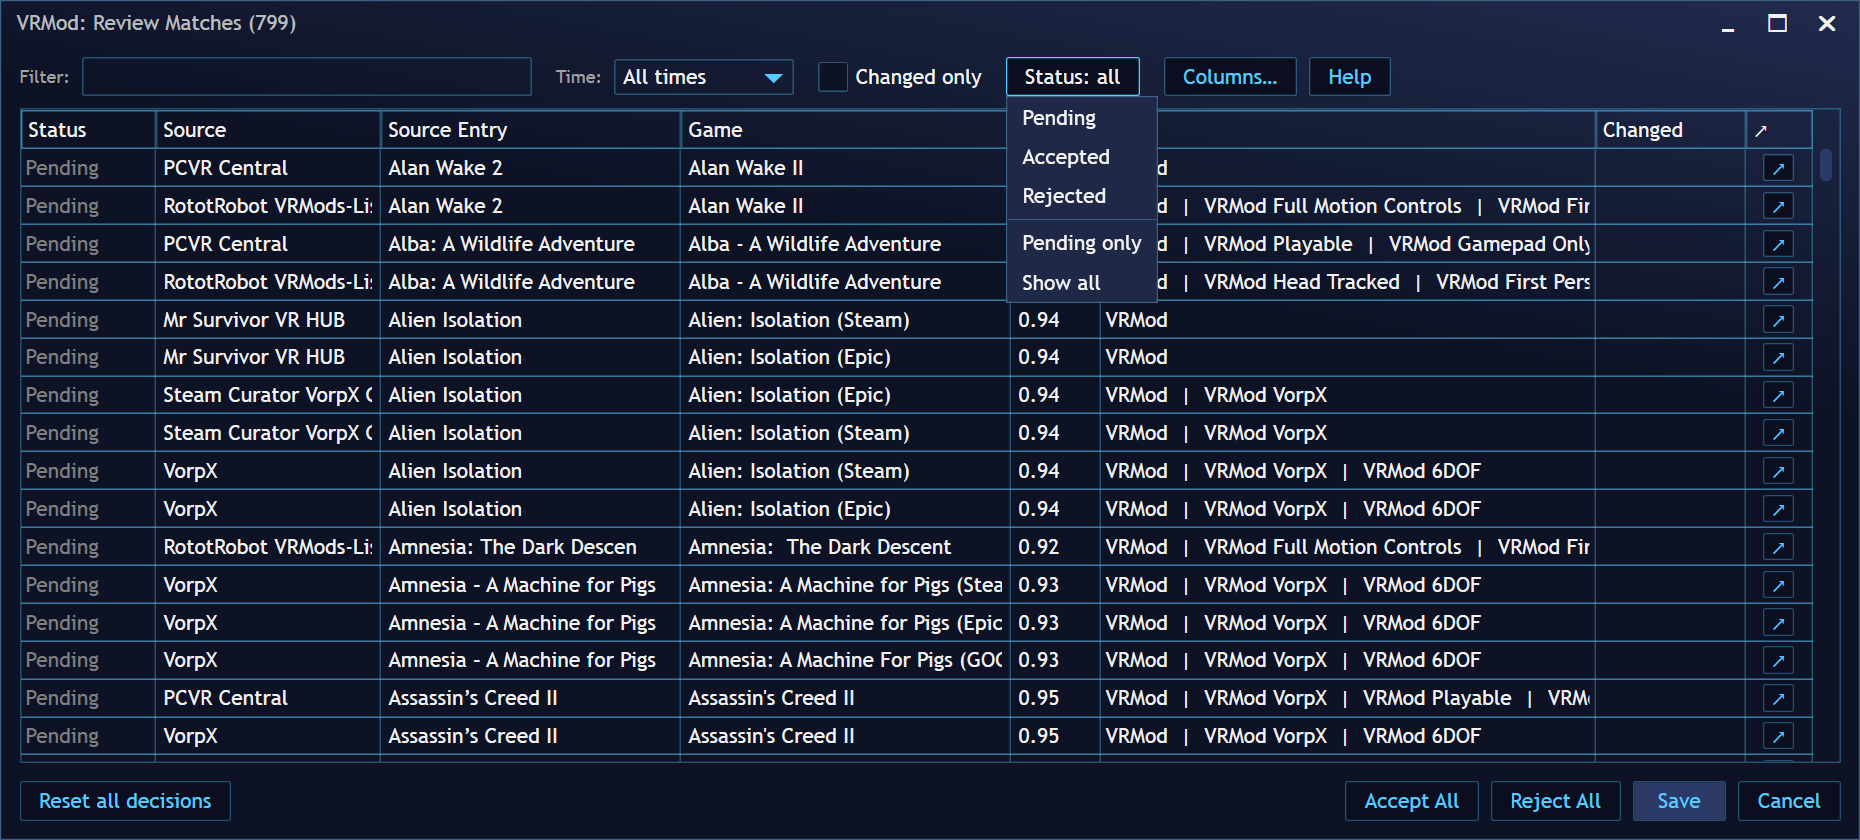
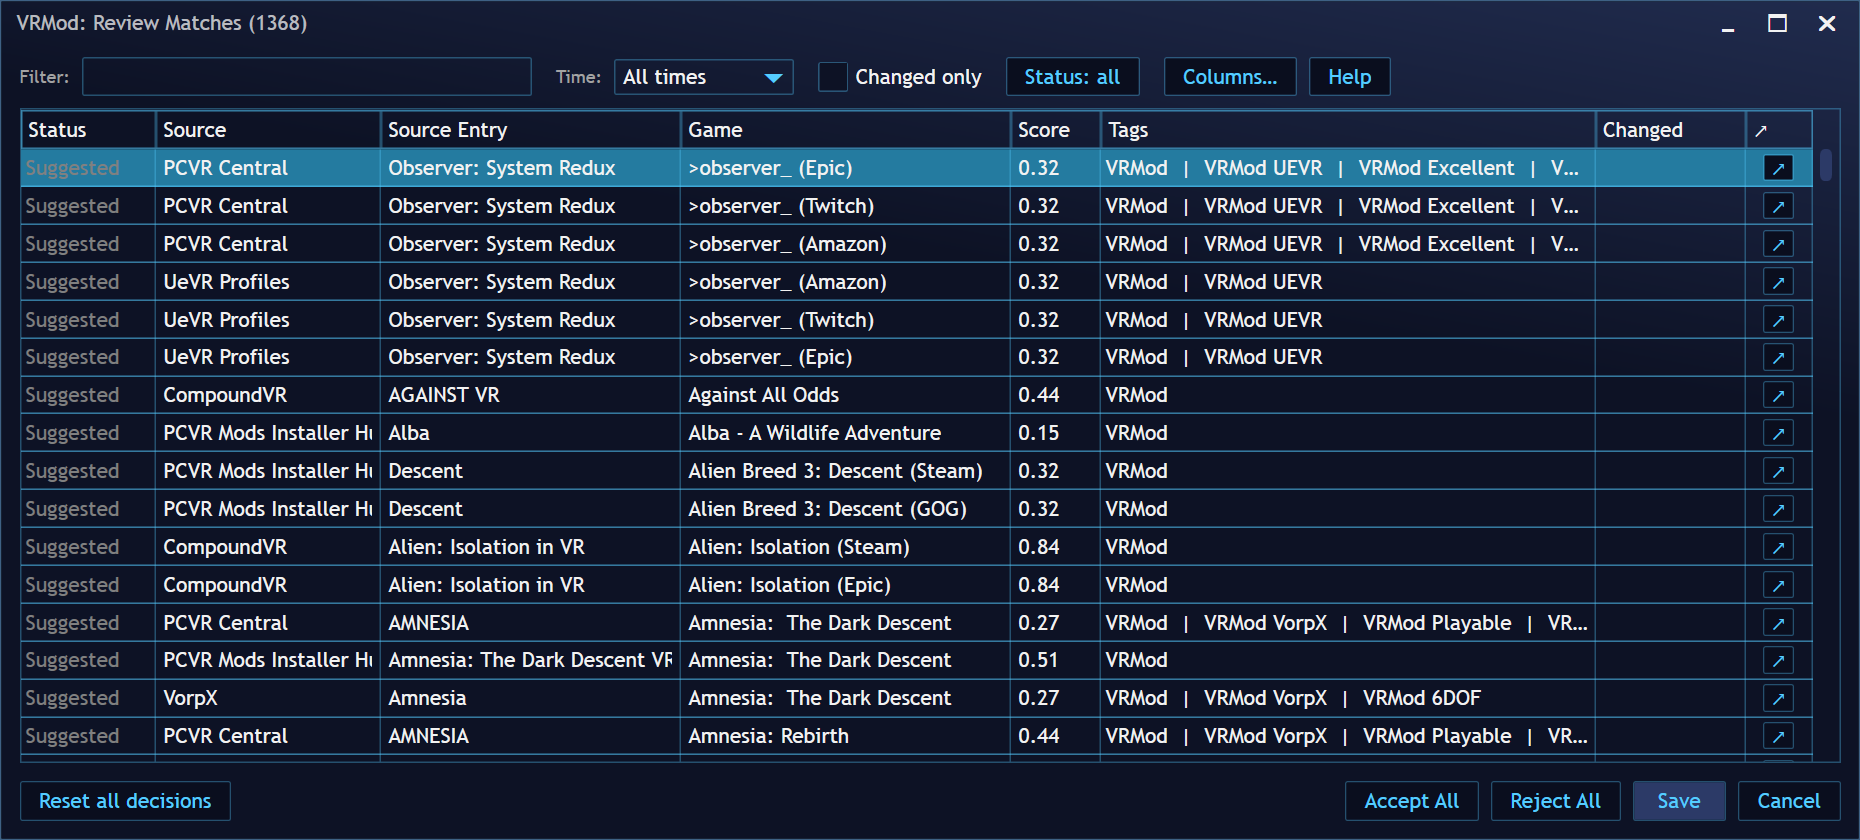
docs: the manual follows the menus, the removal routes, and a down source
The pages described the add-on the user no longer meets, and three of those
sentences were not stale wording but the opposite of the shipped behaviour - the
kind of wrong a reader acts on. "When you install a new game ... applied silently,
without any window" promised tags for an unreviewed pairing, and the comparison
table's "Human check before writing" row said the plugin tags what it is confident
about, on the very line where a reader chooses between three add-ons. No page stated
the rule every path follows: a scan writes nothing for a pairing nobody agreed to,
whatever started it.

getting-started.md gained that rule and a Menus section for the two submenus -
Extensions > VRMod Tags (Scan..., Settings...) and right-click a game > VRMod Tags
(Check this game for VR mods..., and the two decision items), their visibility, their
confirmations, the count in the labels, and the rule behind how they report: what you
start answers in a window, the bell is only for the scans you did not start, and the
cause of a failure sits in extensions.log next to Playnite.dll. That is stated once at
the head of the section rather than per item, then echoed where a reader actually meets
it - a check that finds nothing, a scan that matched nothing, the settings page's Review
VR Mods - and the one state that reads as a bug to a reader: a game an older version
tagged carries tags with no decision behind them, so the decision items stay absent until
a scan gives it a row to decide.
[…]

diff --git a/docs/getting-started.md b/docs/getting-started.md
@@ -29,8 +29,10 @@ As soon as Playnite starts with the add-on installed, it runs a scan:
   exact first (a Steam App ID match is preferred whenever the
   source has one), then by normalized game name with a similarity
   threshold (the default is 80% — see [Settings](settings.md)).
-- Exact matches (score 1.00) are accepted by default; everything else starts as
-  **Pending** and waits for you in the review dialog.
+- Nothing is written to a game before you agree to it. An exact match (score
+  1.00) arrives in the review dialog already marked as a yes, so confirming it
+  is one press of **Save**; everything else starts as **Pending**. A pairing you
+  have not saved gets no tags and no link.
 
 When the scan finds matches, Playnite posts a notification —
 the bell in the title bar gets a badge and the panel says:
@@ -48,19 +50,124 @@ settings page says what happened (e.g. a source that returned no data).
 The plugin scans automatically:
 
 - **at Playnite startup**,
-- **when you install a new game** — the matches for that
-  single game are applied silently, without any window,
+- **when you add a game to your library** — that game is scanned in the
+  background, with no window: the tags your saved decisions back are written,
+  and a pairing nobody was asked about is left alone until you review it,
 - **on a schedule you configure** — the default
   is every 7 days; see [Settings](settings.md).
 
-Automatic scans run in the background. When there is news, you get the bell
-notification; clicking it opens the review dialog — the pending matches, or
-every matched game when your saved matches picked up tag changes. A scan that
-finds nothing new stays silent. You can also open the review dialog any time
-from the settings page: the **Review VR Mods** button opens it directly from the
-data of your last scan (without rescanning) — with every matched game (new and
-already-decided), so you can review or change your decisions; the **Full Scan**
-button runs the scan and applies the matches right away, without a dialog.
+What a scan does does not depend on what started it: a pairing you **accepted**
+gets its tags and its link, a pairing you **rejected** gets nothing, and a
+pairing nobody has been asked about gets nothing either — it waits in the review
+list. A tag therefore always means "you agreed to this mod for this game".
+
+The startup and scheduled scans report their findings in the bell; clicking it
+opens the review dialog — the pending matches, or every matched game when your
+saved matches picked up tag changes. A scan that finds nothing new stays silent,
+and the per-source status on the settings page says what happened. The new-game
+scan posts no bell: reach the result yourself with the game's own menu (see
+[Menus](#menus)) or the review dialog.
+
+You can also open the review dialog any time from the settings page: the
+**Review VR Mods** button opens it directly from the data of your last scan
+(without rescanning) — with every matched game (new and already-decided), so you
+can review or change your decisions; the **Full Scan** button rescans every
+enabled source and re-applies what your saved decisions back, without a dialog —
+the fast "update my tags" action. Pairings you never decided are not applied by
+it; they wait in the review list.
+
+## When a source is down, or you cancel a scan
+
+A scan that cannot reach one of its sources does not stop. The sources that
+answered are matched and applied as usual, so the mods you already agreed to keep
+their tags and their links. What such a scan will not do is take anything off:
+removing tags and links happens only after a scan in which every enabled source
+answered. Otherwise a site being offline for an afternoon would read as "these
+mods no longer exist". The next scan where everything answers does the cleanup it
+skipped. The failed source is the red row in the [sources
+list](settings.md#sources); its **Last run** button names the reason.
+
+Cancelling is a different thing. The progress window of a manual scan (**Scan...**
+in the Extensions menu, **Full Scan** in the settings page) has a **Cancel**
+button. Cancel while the sources are still answering — the long part of a scan —
+and it stops before writing anything: no tags, no links, no review dialog, and
+whatever earlier scans applied stays as it was. That is the one point where a
+cancel is looked for, so once every source has answered the scan finishes its
+local work and writes what it found; a click after that cannot take it back. The
+automatic scans (startup, schedule, a new game) have no window, so there is
+nothing to cancel.
+
+## Menus
+
+The plugin adds two submenus to Playnite, both titled **VRMod Tags** — one under
+the main menu's **Extensions**, one in the context menu of a game or selection.
+
+Anything you start from these menus answers in a **window**: a menu closes the
+moment you click it, so a result with nothing else on screen to carry it would
+never arrive. The bell is reserved for the scans you did not start — startup,
+the schedule, a new game (see [Automatic scans](#automatic-scans)). When
+something did not work, the window says so and the cause is in Playnite's
+`extensions.log`, next to `Playnite.dll`.
+
+### Extensions → VRMod Tags
+
+- **Scan...** — scans the whole library and ends in the review dialog, showing
+  every matched game: what this scan found, your accepted and rejected pairings,
+  and everything still waiting for you. When no mod in the sources fits any game
+  in your library, a window says that instead of an empty dialog; when the scan
+  does not finish, the window says so, and `extensions.log` holds the cause.
+- **Settings...** — opens this plugin's page in the **Add-ons** window (see the
+  note under [Installing](#installing): add-on settings are not in Playnite's
+  main **Settings** window). The item is not offered in fullscreen mode, where
+  there is no settings page to open.
+
+![The Extensions menu with the plugin's Scan and Settings items](img/extensions-menu.png)
+
+### Right-click a game → VRMod Tags
+
+The labels count your selection, so a multi-selection reads "these 4 games"
+where one game reads "this game".
+
+- **Check this game for VR mods...** — scans only the selected games and opens
+  their review list. Always offered. When those games have no mod, it says so in
+  a window rather than a bell; and when a scan is already running (or no source
+  is enabled) it says the scan did not start, rather than opening an empty
+  window.
+- **Reset my decisions for this game...** — offered when the plugin holds a
+  saved decision (accepted, rejected, or merely asked) for at least one selected
+  game. It forgets those decisions *and* removes the tags and links they had put
+  on those games, in one action, so a game keeps nothing the plugin no longer
+  stands behind. The next scan offers the mods for review again — which makes
+  this also the way back from a reject.
+- **Reject all assigned VR mods on this game...** — offered when the plugin
+  holds an accepted pairing for at least one selected game. The mods assigned to
+  those games are refused: their tags and links come off now, and the plugin will
+  not offer them again. Other mods that fit the game are still suggested — the
+  veto is per mod and per game, not a ban on the game.
+
+The last two ask for confirmation first, and the confirmation says what will be
+removed and how to undo it. Neither one touches a tag the plugin did not add: your
+own tags and links stay yours. Every route by which a tag comes back off — the
+two above, the review dialog, a source you switch off, and what a full scan does
+when a mod's listing disappears — is in
+[Tags & data sources](tags.md#how-a-tag-comes-off-again).
+
+The menu items appear only where they can do something — which is why a game with
+no VR mod of yours in it shows only **Check this game for VR mods...**.
+
+![A game with no VR mod of yours: the plugin's submenu holds only the check](img/game-menu.png)
+
+One
+state asks for that separately: a game tagged by an **older** version of the
+plugin, which could tag a match it had never asked you about, carries tags with
+no saved decision behind them. For such a game the two decision items do not
+appear, because there is no decision to reset or refuse; **Check this game for VR
+mods...** lists it, and deciding its row in the dialog gives it a decision — from
+then on the menu treats it like any other game. The current version never
+creates that state.
+
+Everything a menu does to one game, the review dialog does to a whole set at
+once — see [Review dialog](review.md).
 
 ## Updating
 

diff --git a/README.md b/README.md
@@ -3,13 +3,13 @@
 **VRMod Tags** is a Playnite add-on — a metadata provider — that finds
 VR mods, ports and conversions for the games already in your library.
 It reads community-curated sources, matches their listings against
-your games, and tags the games it is confident about; the uncertain
-matches wait in a review dialog until you decide. Accepted games get a
+your games, and asks you about the pairings it finds: nothing is tagged
+until you accept it. Accepted games get a
 `VRMod` tag, the source's own category tags, and a link to the mod page.
 
 ## Features
 
-- **Auto-tagging** — `VRMod` plus category-specific tags (UEVR,
+- **Tags and links for what you accept** — `VRMod` plus category-specific tags (UEVR,
   Depth3D, REFramework, and the source's own framework and status
   vocabulary), and a `Link` to the listing the match came from.
 - **Twelve community sources** — ten enabled by default: PCVR Central,
@@ -26,15 +26,20 @@ matches wait in a review dialog until you decide. Accepted games get a
   *Game*, because the re-release words at the end of a name say which copy it
   is, not which product. A match resting on the App ID alone is a Pending row
   for you to decide, never a tag applied on its own.
-- **A review dialog for the matches it is unsure about** — filter,
+- **A review dialog for every pairing it finds** — filter,
   sort, accept, reject, bulk actions, column control, open the mod page.
-  Statuses are Saved/New (accepted), Rejected, Suggested and Pending.
+  Nothing reaches your library before you save it; an exact-name pairing simply
+  arrives pre-ticked as a yes. Statuses are Saved/New (accepted), Rejected,
+  Suggested and Pending.
 - **Decisions stick** — an accepted or rejected pairing is keyed by the
   listing's identity (its App ID or page URL) and its game, so it survives a
   rename on the site and a rename in your library.
 - **Scans** — at startup, when a game is added or renamed,
   and on a configurable interval, with per-source caching
   and a bell notification when something needs reviewing.
+- **Menus** — **Extensions → VRMod Tags** for a full scan and the settings, and
+  a game's own context menu to check these games for mods, reject the VR mods
+  assigned to them, or reset your decisions for them.
 - **A run log** — what each source returned, what failed and why, per scan.
 - **Clean uninstall** — every tag, link, queued
   change and setting the plugin added is removed.
@@ -59,7 +64,7 @@ changes it makes are part of your Playnite library, not a private store.
   start, the review dialog, the settings page, every tag and
   every source. This is what the plugin's **Help** button opens.
 - [docs/getting-started.md](docs/getting-started.md) — Install,
-  first scan, automatic scans, updating, uninstalling.
+  first scan, automatic scans, the plugin's menus, updating, uninstalling.
 - [docs/review.md](docs/review.md) — Every column and status in the review
   dialog, filters, sorting, bulk actions, resetting decisions.
 - [docs/settings.md](docs/settings.md) — The sources grid column by column,
@@ -178,8 +183,8 @@ Matcher][matcher] (SW-Fan1138), and VRMod Tags (this plugin).
   first; optional review for similar-title matches
 - PCVR Central Matcher — Applies on Sync; you create
   the `PCVR-Mod` and `PCVR-Native` tags yourself first
-- VRMod Tags — Tags confident matches automatically;
-  everything else waits in the review dialog
+- VRMod Tags — Writes nothing until you accept it;
+  every pairing waits in the review dialog, and a refusal is remembered
 
 #### Tag vocabulary
 

diff --git a/docs/tags.md b/docs/tags.md
@@ -50,6 +50,32 @@ full-motion *and* a UEVR profile yields `VRMod Full Motion` *and*
 `VRMod UEVR`). A game's tag set is the union of every tag yielded by
 every matched mod, so a game can carry several category tags at once.
 
+## How a tag comes off again
+
+Your saved decisions are the state; the tags and the links to mod
+pages are what those decisions put into your library. A tag this
+plugin owns comes off a game as soon as **nothing backs it any
+more** — the same rule on every path, whether the change came from
+you or from a scan. So there are as many ways to take a tag off as
+there are to change what backs it:
+
+| What you do | What comes off |
+| --- | --- |
+| Reject a pairing in the [review dialog](review.md) and **Save** | That mod's category and facet tags, and its link to the mod page. The umbrella `VRMod` tag goes as well if no other VR mod tag is left on the game. Other accepted mods keep their tags. |
+| Set a decided row back to *Pending* and **Save** | The same tags come off, and the saved decision is cleared — the pairing is offered for review again. |
+| **Reset my decisions for this game...** (a game's right-click menu → **VRMod Tags**) | Every tag and link the plugin put on those games, and the decisions behind them. The next scan asks again. |
+| **Reject all assigned VR mods on this game...** (the same menu) | The assigned mods' tags and links. The decisions stay, as refusals, so those pairings are not offered again. |
+| **Reset all decisions** (review dialog) → **Reset and remove tags** | Every `VRMod*` tag in your library. The **Reset only** option clears the decisions and leaves every tag where it is. |
+| Turn a source off in [settings](settings.md) | Playnite asks *Remove the VRMod tags that came from "…"?* Tags another source also backs are kept. **Cancel** — or closing that question — leaves them all. |
+| Nothing at all | When a mod's listing disappears from every source, the next full scan takes the tags it used to back off the game. A tag never outlives the match behind it. (If a source failed during that scan, the plugin removes nothing — it keeps the tags rather than guess. See [when a source is down](getting-started.md#when-a-source-is-down-or-you-cancel-a-scan).) |
+
+**What counts as "ours" is the tag's name.** The plugin only ever
+removes a tag named `VRMod` or `VRMod …`, and it never relies on a
+tag id. So a tag you made yourself that happens to carry one of
+those names cannot be told apart from the plugin's own, and goes
+with them; every other name is untouched — your own tags and links
+stay yours.
+
 ## Data sources
 
 This plugin is built on the data and curation of these

diff --git a/docs/settings.md b/docs/settings.md
@@ -12,13 +12,18 @@ if you don't see the plugin there, you're in the wrong window.
 
 - **Games with VR mods: N** — how many games in
   your library currently carry a `VRMod` tag.
-- **Full Scan** — checks every enabled source and applies the matches
-  right away, without a dialog (the fast "update my tags" action).
+- **Full Scan** — checks every enabled source and re-applies what your saved
+  decisions back, without a dialog (the fast "update my tags" action). Pairings
+  you never decided are not applied by it; they wait in the review dialog. When
+  it cannot start (another scan is still running, or no source is enabled) or
+  does not finish, a window says so; `extensions.log` holds the cause.
 - **Review VR Mods** — opens the review dialog for every matched game
   (new and already-decided) so you can review or change your decisions.
   It opens instantly from the data of your last scan — it does not
   rescan. Only when no scan data is available yet (right after Playnite
-  started, before the first scan finished) it runs a scan first.
+  started, before the first scan finished) it runs a scan first. When
+  nothing in the sources matches a game of yours, a window says that
+  instead of an empty dialog.
 - **Help** (top right) — opens the user manual that ships inside the installed
   package, so the documentation always matches the version you have installed.
 
@@ -38,8 +43,10 @@ One row per data source:
 
 A source that fails (red) never takes other tags down with
 it: the scan continues for the healthy sources and skips
-removing any stale tags that scan, so nothing is lost while a
-source is down. The next healthy scan restores normal cleanup.
+removing any stale tags and any stale source links that scan, so
+nothing is lost while a source is down. The next healthy scan
+restores normal cleanup. What the healthy sources found is still
+applied — see [when a source is down](getting-started.md#when-a-source-is-down-or-you-cancel-a-scan).
 
 **VorpX** and **Luke Ross (R.E.A.L. VR)** are **opt-in** sources: they
 are **disabled by default**, so on a fresh install their **Active**

diff --git a/docs/review.md b/docs/review.md
@@ -8,7 +8,12 @@ suggested matches are right. You open it:
   already-decided), pending first, so you can review or change your decisions;
 - from the bell notification — the pending matches when there are new ones,
   or every matched game when your saved matches picked up tag changes (a scan
-  that found nothing new posts no notification at all).
+  that found nothing new posts no notification at all);
+- from **Extensions → VRMod Tags → Scan...** — a full scan first, then this
+  dialog with every matched game;
+- from a game's context menu, **VRMod Tags → Check this game for VR mods...**
+  — a scan of the selected games only, then their rows. Both menus are in
+  [Getting started](getting-started.md#menus).
 
 ![The review dialog](img/review-dialog.png)
 
@@ -115,6 +120,11 @@ with no Steam link, match by name exactly as they always did.
   your library (tags and links are applied), **Cancel** closes the dialog
   and discards the unsaved changes. **Save** is disabled while everything
   is already saved. The **×** in the title bar also closes without saving.
+- The library menu offers the same decisions one game at a time: a game's
+  right-click menu → **VRMod Tags** → **Reset my decisions for this
+  game...** or **Reject all assigned VR mods on this game...**. What each
+  of them does to the tags and links — in this dialog and in that menu —
+  is in [Tags & data sources](tags.md#how-a-tag-comes-off-again).
 
 The dialog is a normal Playnite window: it can be
 minimized, maximized, and resized from the edges.
@@ -142,3 +152,8 @@ all matches are reviewed again. It asks what to do with the tags:
 
 - **Reset only** — keep the tags already applied to your games;
 - **Reset and remove tags** — also remove every `VRMod*` tag from your library.
+
+This is the library-wide hammer. To undo **one game**, use that game's
+right-click menu instead — **Reset my decisions for this game...** or
+**Reject all assigned VR mods on this game...**, both under **VRMod
+Tags** ([Getting started → Menus](getting-started.md#menus)).

diff --git a/docs/README.md b/docs/README.md
@@ -35,8 +35,8 @@ and adds a link to the mod page, so VR-playable games are always easy to find.
 
 | Page | What it covers |
 | --- | --- |
-| [Getting started](getting-started.md) | Installation, what happens on install and first scan, automatic scans, the bell notification, updating, uninstalling. |
+| [Getting started](getting-started.md) | Installation, what happens on install and first scan, automatic scans, the plugin's two menus, the bell notification, updating, uninstalling. |
 | [Review dialog](review.md) | Every column, the status values, accept/reject, filters, sorting, the columns menu, bulk actions, and resetting all decisions. |
 | [Settings](settings.md) | The Sources grid column by column, source health, the fuzzy-match threshold, scan interval, cache duration, and the Help button. |
-| [Tags & data sources](tags.md) | Every tag the plugin can apply, what it means, and the community sources this plugin is built on. |
+| [Tags & data sources](tags.md) | Every tag the plugin can apply, what it means, how a tag comes off again, and the community sources this plugin is built on. |
 | [For developers](for-developers.md) | Where the developer documentation lives. |
